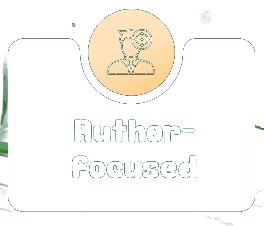
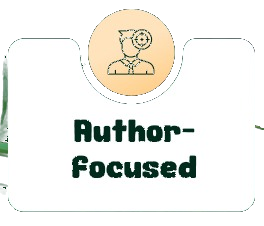
Why: tighter scene, clean card cut-outs

diff --git a/docs/style.css b/docs/style.css
@@ -447,4 +447,4 @@ input.pf:focus,textarea.pf:focus{background-color:rgba(255,255,255,.28)!importan
 /* the exported scene has smeared (stretched) edges: show only its clean middle and let the dark band carry the rest */
 .pg .sec#why{background:#002a1c url(assets/tex-dark2.jpg) 0 0/1500px auto repeat}
 .pg .sec#why>img.a:first-child{-webkit-mask-image:radial-gradient(ellipse 36% 56% at 50% 50%,#000 55%,transparent 100%);mask-image:radial-gradient(ellipse 36% 56% at 50% 50%,#000 55%,transparent 100%)}
-.pg .sec#why>img.a:first-child{-webkit-mask-image:radial-gradient(ellipse 30% 56% at 50% 52%,#000 45%,transparent 100%);mask-image:radial-gradient(ellipse 30% 56% at 50% 52%,#000 45%,transparent 100%)}
+.pg .sec#why>img.a:first-child{-webkit-mask-image:radial-gradient(ellipse 24% 44% at 50% 46%,#000 40%,transparent 100%);mask-image:radial-gradient(ellipse 24% 44% at 50% 46%,#000 40%,transparent 100%)}

diff --git a/style.css b/style.css
@@ -447,4 +447,4 @@ input.pf:focus,textarea.pf:focus{background-color:rgba(255,255,255,.28)!importan
 /* the exported scene has smeared (stretched) edges: show only its clean middle and let the dark band carry the rest */
 .pg .sec#why{background:#002a1c url(assets/tex-dark2.jpg) 0 0/1500px auto repeat}
 .pg .sec#why>img.a:first-child{-webkit-mask-image:radial-gradient(ellipse 36% 56% at 50% 50%,#000 55%,transparent 100%);mask-image:radial-gradient(ellipse 36% 56% at 50% 50%,#000 55%,transparent 100%)}
-.pg .sec#why>img.a:first-child{-webkit-mask-image:radial-gradient(ellipse 30% 56% at 50% 52%,#000 45%,transparent 100%);mask-image:radial-gradient(ellipse 30% 56% at 50% 52%,#000 45%,transparent 100%)}
+.pg .sec#why>img.a:first-child{-webkit-mask-image:radial-gradient(ellipse 24% 44% at 50% 46%,#000 40%,transparent 100%);mask-image:radial-gradient(ellipse 24% 44% at 50% 46%,#000 40%,transparent 100%)}

diff --git a/docs/index.html b/docs/index.html
@@ -23,7 +23,7 @@
 <link rel="preconnect" href="https://fonts.gstatic.com" crossorigin>
 <link href="https://fonts.googleapis.com/css2?family=Bagel+Fat+One&family=Comic+Relief:wght@700&family=Figtree:wght@400;500&display=swap" rel="stylesheet">
 <link rel="icon" type="image/png" href="assets/favicon.png">
-<link rel="stylesheet" href="style.css?v=1794614643">
+<link rel="stylesheet" href="style.css?v=1794614800">
 <link rel="stylesheet" href="seo.css?v=1794613344">
 <link rel="stylesheet" href="service.css?v=1794527232">
 <script>document.documentElement.classList.add('js')</script>

diff --git a/docs/about.html b/docs/about.html
@@ -25,7 +25,7 @@
 <link rel="icon" type="image/png" href="assets/favicon.png">
 <link rel="stylesheet" href="assets/vendor/bootstrap-grid.min.css">
 <link rel="stylesheet" href="assets/vendor/bootstrap-utilities.min.css">
-<link rel="stylesheet" href="style.css?v=1794614643">
+<link rel="stylesheet" href="style.css?v=1794614800">
 <link rel="stylesheet" href="about.css?v=1794613344">
 <link rel="stylesheet" href="service.css?v=1794527232">
 <link rel="stylesheet" href="seo.css?v=1794613344">

diff --git a/docs/book-publishing.html b/docs/book-publishing.html
@@ -25,7 +25,7 @@
 <link rel="icon" type="image/png" href="assets/favicon.png">
 <link rel="stylesheet" href="assets/vendor/bootstrap-grid.min.css">
 <link rel="stylesheet" href="assets/vendor/bootstrap-utilities.min.css">
-<link rel="stylesheet" href="style.css?v=1794614643">
+<link rel="stylesheet" href="style.css?v=1794614800">
 <link rel="stylesheet" href="about.css?v=1794613344">
 <link rel="stylesheet" href="service.css?v=1794527232">
 <link rel="stylesheet" href="seo.css?v=1794613344">

diff --git a/docs/service-author-branding.html b/docs/service-author-branding.html
@@ -25,7 +25,7 @@
 <link rel="icon" type="image/png" href="assets/favicon.png">
 <link rel="stylesheet" href="assets/vendor/bootstrap-grid.min.css">
 <link rel="stylesheet" href="assets/vendor/bootstrap-utilities.min.css">
-<link rel="stylesheet" href="style.css?v=1794614643">
+<link rel="stylesheet" href="style.css?v=1794614800">
 <link rel="stylesheet" href="about.css?v=1794613344">
 <link rel="stylesheet" href="service.css?v=1794527232">
 <link rel="stylesheet" href="seo.css?v=1794613344">

diff --git a/docs/service-author-website.html b/docs/service-author-website.html
@@ -25,7 +25,7 @@
 <link rel="icon" type="image/png" href="assets/favicon.png">
 <link rel="stylesheet" href="assets/vendor/bootstrap-grid.min.css">
 <link rel="stylesheet" href="assets/vendor/bootstrap-utilities.min.css">
-<link rel="stylesheet" href="style.css?v=1794614643">
+<link rel="stylesheet" href="style.css?v=1794614800">
 <link rel="stylesheet" href="about.css?v=1794613344">
 <link rel="stylesheet" href="service.css?v=1794527232">
 <link rel="stylesheet" href="seo.css?v=1794613344">

diff --git a/docs/service-book-illustrations.html b/docs/service-book-illustrations.html
@@ -25,7 +25,7 @@
 <link rel="icon" type="image/png" href="assets/favicon.png">
 <link rel="stylesheet" href="assets/vendor/bootstrap-grid.min.css">
 <link rel="stylesheet" href="assets/vendor/bootstrap-utilities.min.css">
-<link rel="stylesheet" href="style.css?v=1794614643">
+<link rel="stylesheet" href="style.css?v=1794614800">
 <link rel="stylesheet" href="about.css?v=1794613344">
 <link rel="stylesheet" href="service.css?v=1794527232">
 <link rel="stylesheet" href="seo.css?v=1794613344">

diff --git a/docs/service-book-trailer.html b/docs/service-book-trailer.html
@@ -25,7 +25,7 @@
 <link rel="icon" type="image/png" href="assets/favicon.png">
 <link rel="stylesheet" href="assets/vendor/bootstrap-grid.min.css">
 <link rel="stylesheet" href="assets/vendor/bootstrap-utilities.min.css">
-<link rel="stylesheet" href="style.css?v=1794614643">
+<link rel="stylesheet" href="style.css?v=1794614800">
 <link rel="stylesheet" href="about.css?v=1794613344">
 <link rel="stylesheet" href="service.css?v=1794527232">
 <link rel="stylesheet" href="seo.css?v=1794613344">

diff --git a/docs/service-copyright-registration.html b/docs/service-copyright-registration.html
@@ -25,7 +25,7 @@
 <link rel="icon" type="image/png" href="assets/favicon.png">
 <link rel="stylesheet" href="assets/vendor/bootstrap-grid.min.css">
 <link rel="stylesheet" href="assets/vendor/bootstrap-utilities.min.css">
-<link rel="stylesheet" href="style.css?v=1794614643">
+<link rel="stylesheet" href="style.css?v=1794614800">
 <link rel="stylesheet" href="about.css?v=1794613344">
 <link rel="stylesheet" href="service.css?v=1794527232">
 <link rel="stylesheet" href="seo.css?v=1794613344">

diff --git a/docs/service-press-release.html b/docs/service-press-release.html
@@ -25,7 +25,7 @@
 <link rel="icon" type="image/png" href="assets/favicon.png">
 <link rel="stylesheet" href="assets/vendor/bootstrap-grid.min.css">
 <link rel="stylesheet" href="assets/vendor/bootstrap-utilities.min.css">
-<link rel="stylesheet" href="style.css?v=1794614643">
+<link rel="stylesheet" href="style.css?v=1794614800">
 <link rel="stylesheet" href="about.css?v=1794613344">
 <link rel="stylesheet" href="service.css?v=1794527232">
 <link rel="stylesheet" href="seo.css?v=1794613344">

diff --git a/docs/service-social-media-marketing.html b/docs/service-social-media-marketing.html
@@ -25,7 +25,7 @@
 <link rel="icon" type="image/png" href="assets/favicon.png">
 <link rel="stylesheet" href="assets/vendor/bootstrap-grid.min.css">
 <link rel="stylesheet" href="assets/vendor/bootstrap-utilities.min.css">
-<link rel="stylesheet" href="style.css?v=1794614643">
+<link rel="stylesheet" href="style.css?v=1794614800">
 <link rel="stylesheet" href="about.css?v=1794613344">
 <link rel="stylesheet" href="service.css?v=1794527232">
 <link rel="stylesheet" href="seo.css?v=1794613344">
